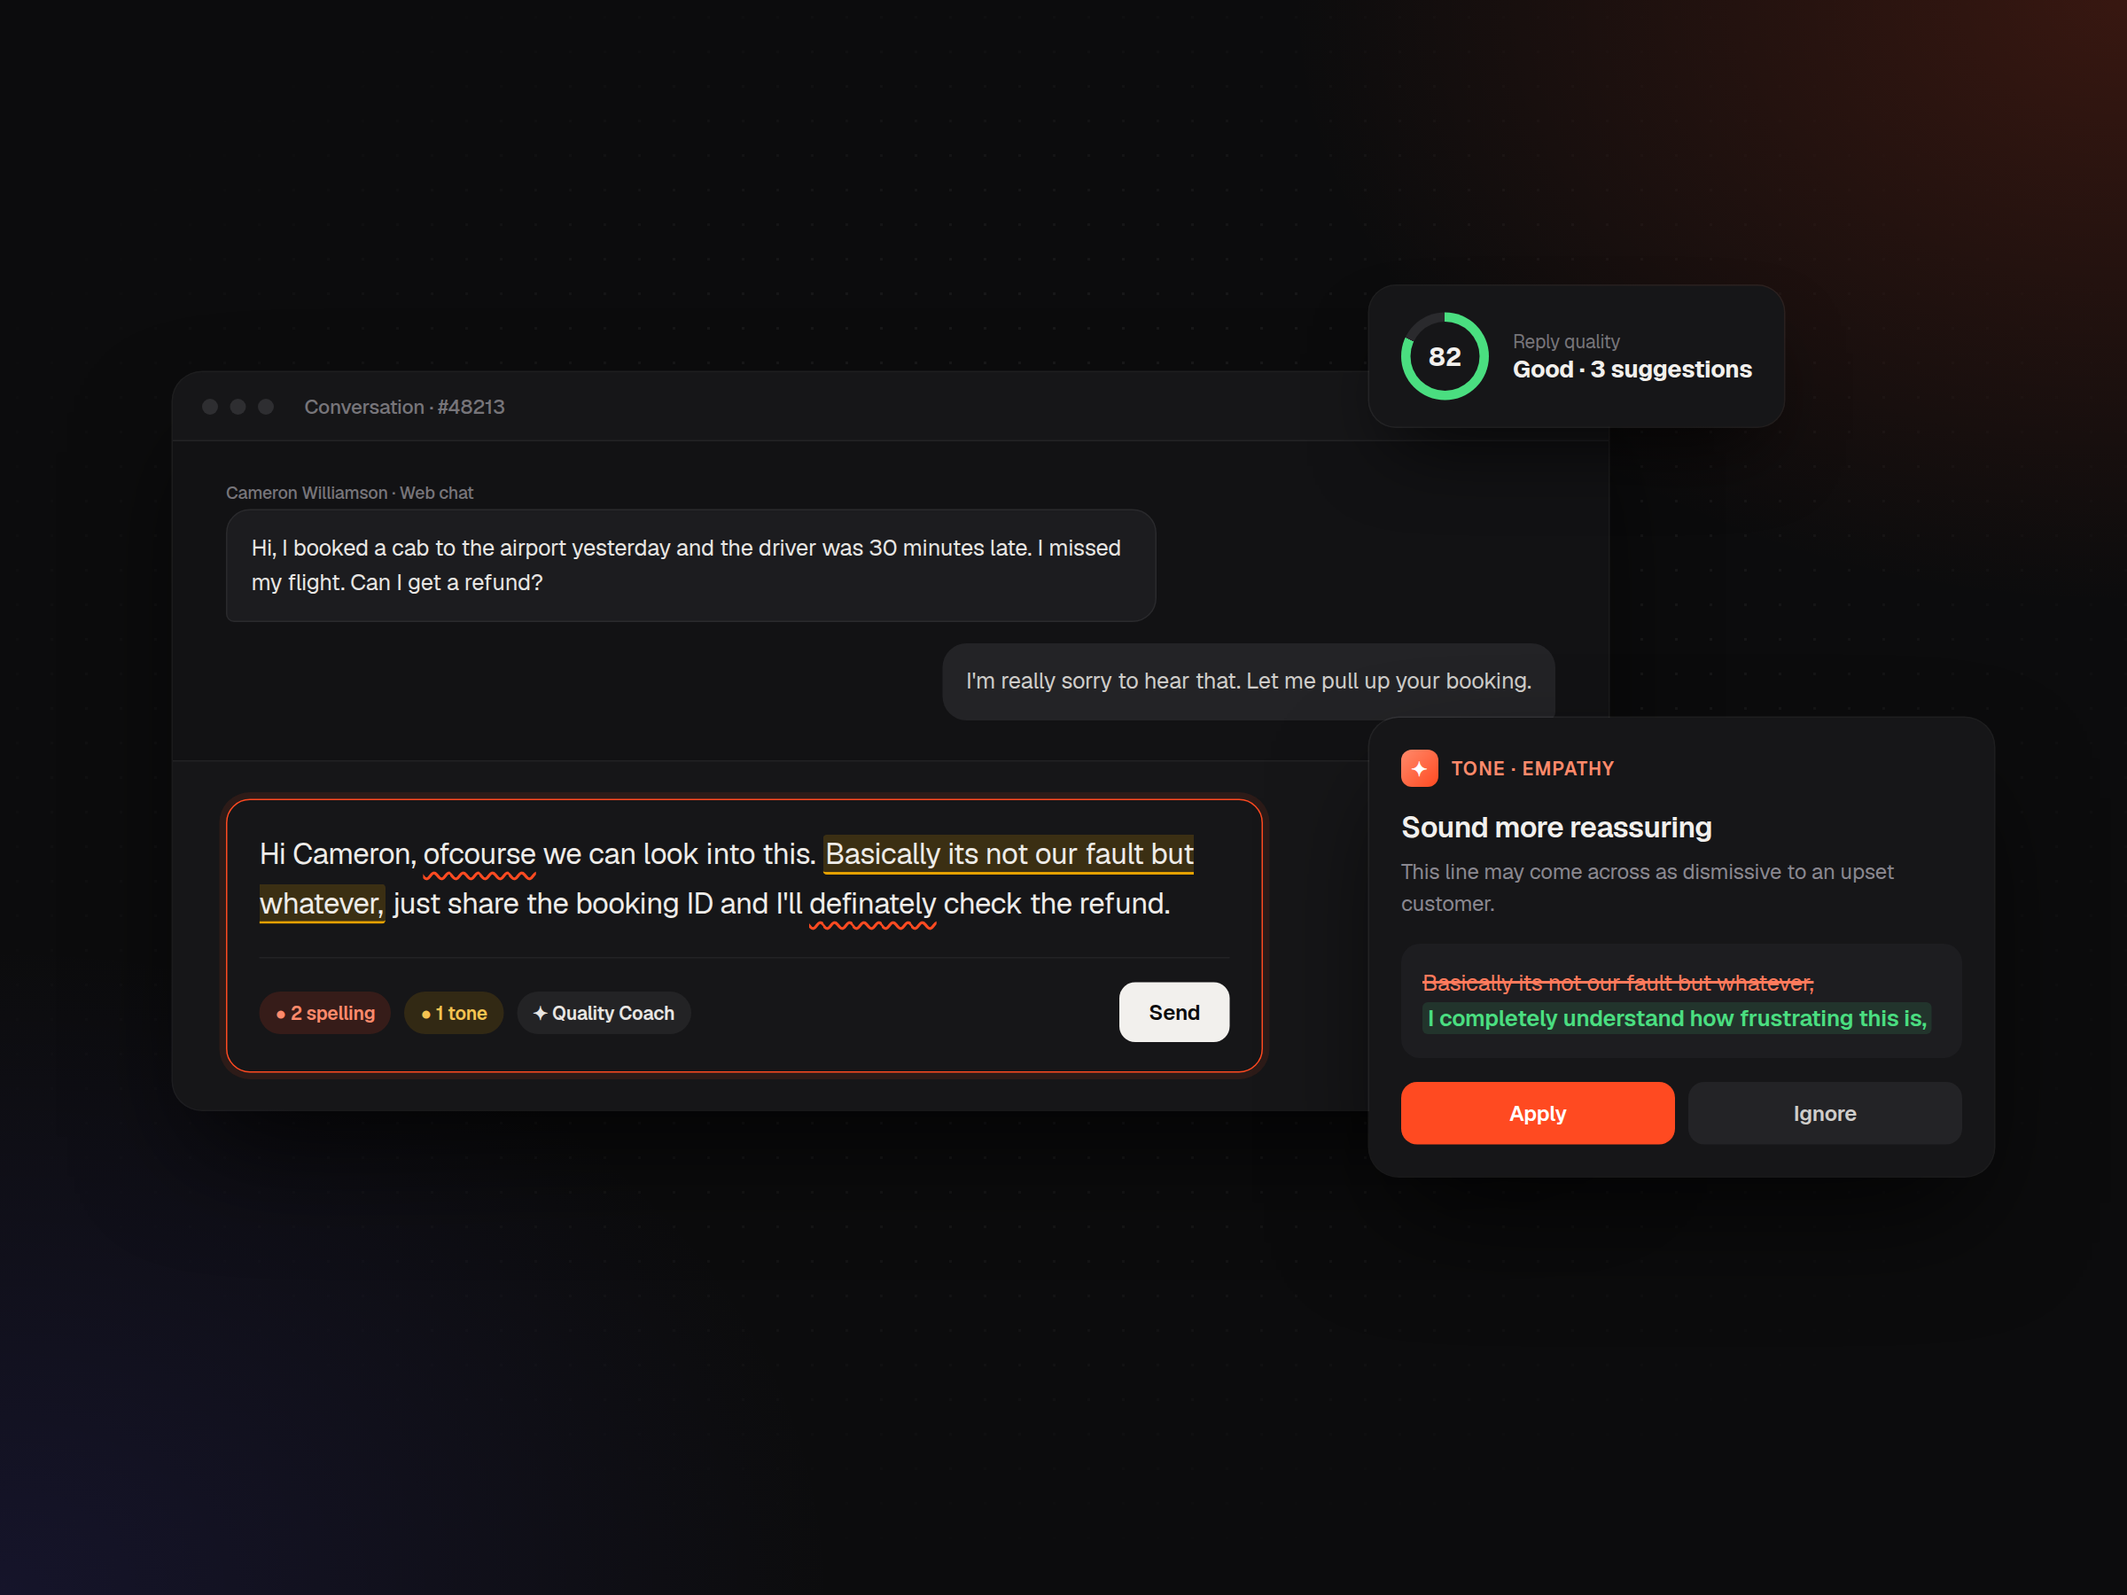
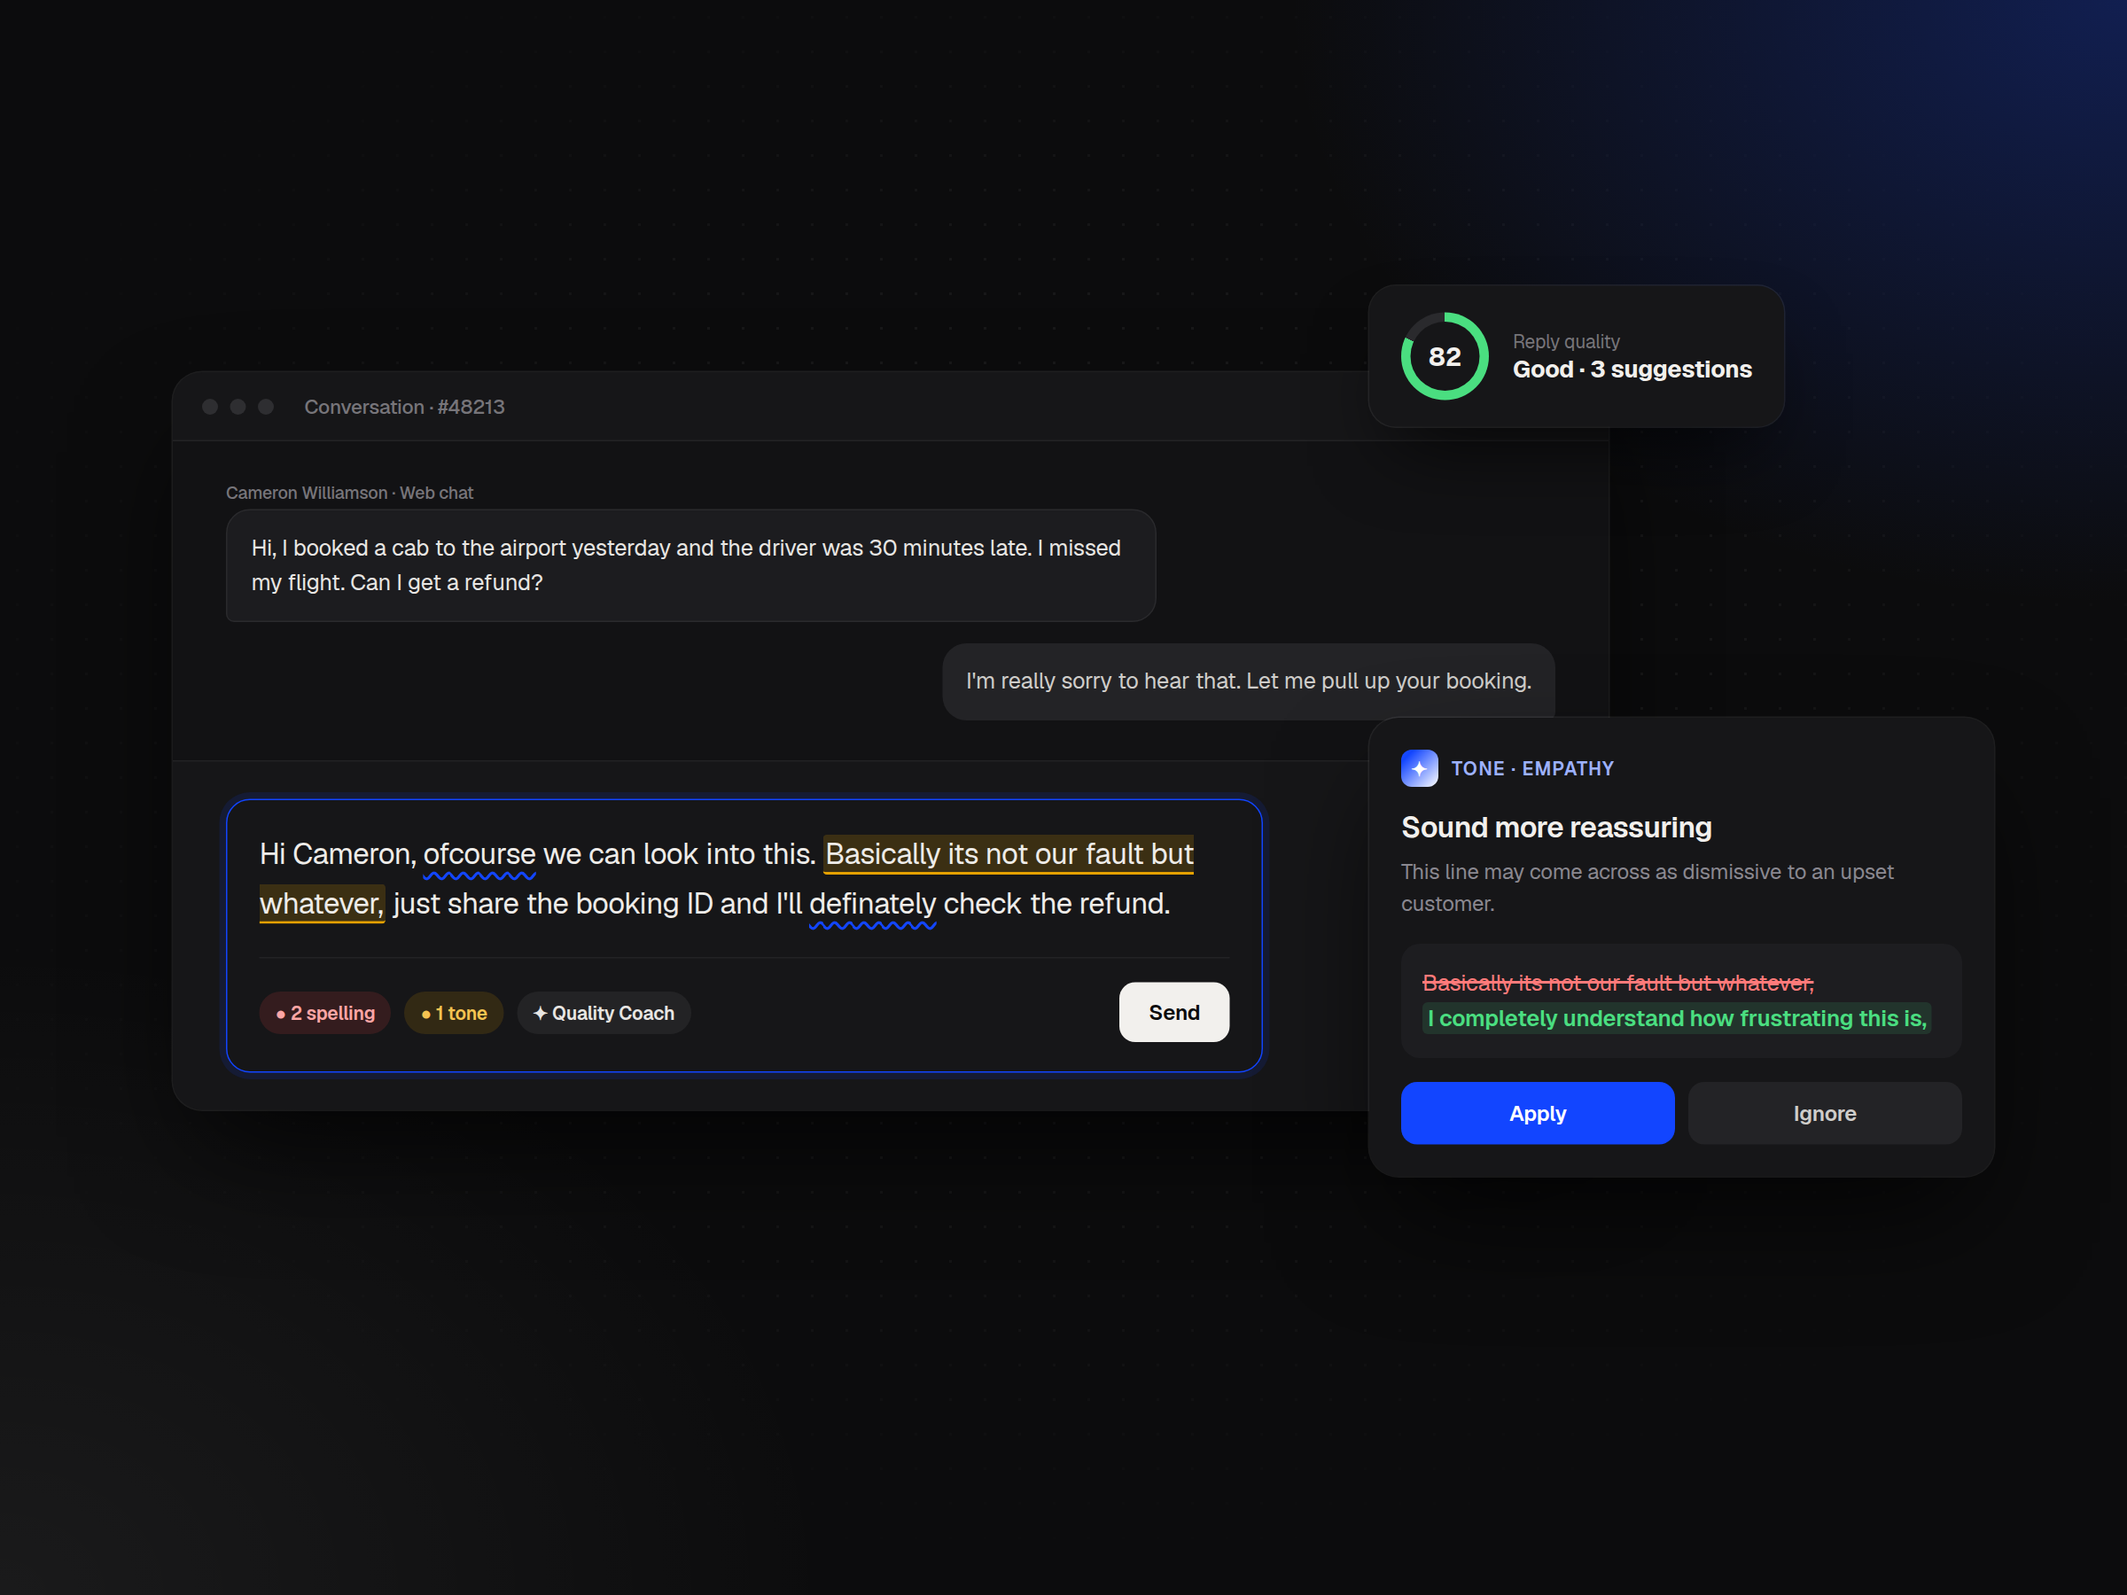
Replace orange accent with blue-to-white gradient (#1F4FFF, #1245FF, white)
Claude-Session: https://claude.ai/code/session_017r7Vu9Yd1wf2hX6fqKv751

diff --git a/framer-thumbnails/qa-dark.html b/framer-thumbnails/qa-dark.html
@@ -1,5 +1,5 @@
 <!doctype html><html><head><link rel="stylesheet" href="base.css"><style>
-.stage{background:radial-gradient(900px 600px at 15% 0%,rgba(255,74,33,.16),transparent 70%),radial-gradient(800px 700px at 100% 100%,rgba(90,80,255,.12),transparent 70%),#0c0c0d}
+.stage{background:radial-gradient(900px 600px at 15% 0%,rgba(31,79,255,.28),transparent 70%),radial-gradient(800px 700px at 100% 100%,rgba(255,255,255,.06),transparent 70%),#0c0c0d}
 .main{left:150px;top:245px;width:1000px}
 .hd{padding:34px 40px 22px;display:flex;justify-content:space-between;align-items:end}
 .hd h1{font-size:34px;font-weight:600;letter-spacing:-.035em}
@@ -19,7 +19,7 @@
 .sw.off{background:#dfe2e8}.sw.off:after{right:auto;left:3px}
 .chat{right:110px;top:530px;width:470px;border-radius:24px}
 .chat .h{display:flex;align-items:center;gap:12px;padding:18px 22px;border-bottom:1px solid #eef0f3}
-.av{width:38px;height:38px;border-radius:50%;background:linear-gradient(135deg,#ffb199,#ff4a21)}
+.av{width:38px;height:38px;border-radius:50%;background:linear-gradient(135deg,#ffb199,#1245FF)}
 .chat .h b{font-size:16px}.chat .h small{display:block;font-size:13px;color:#22a06b}
 .msgs{padding:22px;display:flex;flex-direction:column;gap:14px;background:#fafbfc}
 .m{max-width:80%;padding:14px 16px;border-radius:18px;font-size:16px;line-height:1.45}
@@ -32,8 +32,8 @@
 <div class="win main"><div class="tb"><i></i><i></i><i></i><span>Admin · Automations</span></div>
 <div class="hd"><div><h1>Quick automations</h1><p>Real-time rules for chat, WhatsApp and social channels</p></div><div class="btn">+ New automation</div></div>
 <div class="tabs"><b>Templates</b><span>Active (4)</span><span>Activity log</span></div>
-<div class="row"><div class="ic" style="background:rgba(255,74,33,.14)"><svg viewBox="0 0 24 24" fill="none" stroke="#ff6a45" stroke-width="2"><circle cx="12" cy="12" r="9"/><path d="M12 7v5l3 2"/></svg></div><div class="t"><b>Keep customers informed of delays</b><small>Send reassurance after 45s · cancels if an agent replies</small></div><div class="ch"><i style="background:#25d366">W</i><i style="background:#4b5563">C</i><i style="background:#e1306c">I</i></div><div class="sw"></div></div>
-<div class="row"><div class="ic" style="background:rgba(255,74,33,.1)"><svg viewBox="0 0 24 24" fill="none" stroke="#ff4a21" stroke-width="2"><path d="M4 12a8 8 0 0 1 14-5l2 2M20 12a8 8 0 0 1-14 5l-2-2"/><path d="M20 4v5h-5M4 20v-5h5"/></svg></div><div class="t"><b>Reassign to available agent</b><small>If assigned agent is silent for 2 min</small></div><div class="ch"><i style="background:#25d366">W</i><i style="background:#4b5563">C</i></div><div class="sw"></div></div>
+<div class="row"><div class="ic" style="background:rgba(18,69,255,.18)"><svg viewBox="0 0 24 24" fill="none" stroke="#6f8cff" stroke-width="2"><circle cx="12" cy="12" r="9"/><path d="M12 7v5l3 2"/></svg></div><div class="t"><b>Keep customers informed of delays</b><small>Send reassurance after 45s · cancels if an agent replies</small></div><div class="ch"><i style="background:#25d366">W</i><i style="background:#4b5563">C</i><i style="background:#e1306c">I</i></div><div class="sw"></div></div>
+<div class="row"><div class="ic" style="background:rgba(18,69,255,.12)"><svg viewBox="0 0 24 24" fill="none" stroke="#1245FF" stroke-width="2"><path d="M4 12a8 8 0 0 1 14-5l2 2M20 12a8 8 0 0 1-14 5l-2-2"/><path d="M20 4v5h-5M4 20v-5h5"/></svg></div><div class="t"><b>Reassign to available agent</b><small>If assigned agent is silent for 2 min</small></div><div class="ch"><i style="background:#25d366">W</i><i style="background:#4b5563">C</i></div><div class="sw"></div></div>
 <div class="row"><div class="ic" style="background:rgba(24,160,88,.14)"><svg viewBox="0 0 24 24" fill="none" stroke="#18a058" stroke-width="2"><path d="M4 6h10l6 6-6 6H4"/></svg></div><div class="t"><b>Reroute to fallback group</b><small>During peak load · Tier 2 support</small></div><div class="ch"><i style="background:#4b5563">C</i><i style="background:#1877f2">F</i></div><div class="sw off"></div></div>
 <div class="row"><div class="ic" style="background:rgba(107,85,245,.16)"><svg viewBox="0 0 24 24" fill="none" stroke="#6b55f5" stroke-width="2"><path d="M4 5h16v11H8l-4 4z"/></svg></div><div class="t"><b>Follow up with inactive customers</b><small>Nudge after 5 min of silence</small></div><div class="ch"><i style="background:#25d366">W</i><i style="background:#e1306c">I</i></div><div class="sw"></div></div>
 <div class="row" style="border:0"><div class="ic" style="background:rgba(229,161,0,.14)"><svg viewBox="0 0 24 24" fill="none" stroke="#e5a100" stroke-width="2"><path d="M4 12l8-8h8v8l-8 8z"/><circle cx="16" cy="8" r="1.5"/></svg></div><div class="t"><b>Keep track of resolution delays</b><small>Tag “SLA risk” after 30 min unresolved</small></div><div class="ch"><i style="background:#4b5563">C</i></div><div class="sw off"></div></div>

diff --git a/styles.css b/styles.css
@@ -1,4 +1,4 @@
-:root{--bg:#0c0c0d;--card:#131315;--fg:#f2f0ed;--fg-2:#a3a09b;--fg-3:#6b6964;--line:#1f1e1d;--line-2:#2c2b29;--accent:#ff4a21;
+:root{--bg:#0c0c0d;--card:#131315;--fg:#f2f0ed;--fg-2:#a3a09b;--fg-3:#6b6964;--line:#1f1e1d;--line-2:#2c2b29;--accent:#1245FF;--accent-2:#1F4FFF;--grad:linear-gradient(90deg,#1F4FFF 0%,#1245FF 17%,#ffffff 100%);
   --serif:"Instrument Serif",Georgia,serif;--sans:"Inter",ui-sans-serif,system-ui,sans-serif;--mono:"JetBrains Mono",ui-monospace,monospace;color-scheme:dark}
 *{box-sizing:border-box;margin:0;padding:0}
 html{-webkit-text-size-adjust:100%;scroll-behavior:smooth;background:var(--bg)}
@@ -24,7 +24,7 @@ a{color:inherit;text-decoration:none}img{display:block;max-width:100%}
 .btn{display:inline-flex;align-items:center;gap:10px;height:44px;padding:0 20px;border-radius:99px;font-size:14.5px;font-weight:500;border:1px solid var(--line-2);transition:.25s}
 .btn:hover{border-color:var(--fg-3)}
 .btn.primary{background:var(--accent);border-color:var(--accent);color:#fff}
-.btn.primary:hover{background:#ff6242}
+.btn.primary:hover{background:#1F4FFF;box-shadow:0 0 0 4px rgba(18,69,255,.25)}
 .btn .ar{transition:transform .25s}.btn:hover .ar{transform:translateX(3px)}
 .btn.sm{height:38px;font-size:13.5px}
 
@@ -141,7 +141,7 @@ footer{padding:140px 0 48px}
 .metric span{font-size:13px;color:var(--fg-3);line-height:1.45;display:block;margin-top:8px}
 .matrix{display:grid;grid-template-columns:1fr 1fr;gap:12px;margin-top:20px}
 .matrix div{background:var(--card);padding:18px;border-radius:14px}
-.matrix div.hi{box-shadow:inset 0 0 0 1px rgba(255,74,33,.35)}
+.matrix div.hi{box-shadow:inset 0 0 0 1px rgba(18,69,255,.45)}
 .matrix p{font-size:14px;margin:6px 0 0}
 .figma{margin-top:10px;background:var(--accent);border-color:var(--accent);color:#fff}
 .cs-foot{max-width:820px;margin:0 auto;padding:96px 24px 56px;display:flex;justify-content:space-between;font-size:13.5px;color:var(--fg-3)}
@@ -152,3 +152,19 @@ footer{padding:140px 0 48px}
 @media (prefers-reduced-motion:reduce){.rv{opacity:1;transform:none;transition:none}.hero .rec i{animation:none}}
 @media (max-width:900px){.pr,.pr:nth-child(even){grid-template-columns:1fr;gap:28px}.pr:nth-child(even) .pimg{order:0}.split{grid-template-columns:1fr;gap:48px}.shots{grid-template-columns:1fr 1fr}.metrics,.meta{grid-template-columns:1fr 1fr}.tl li{grid-template-columns:1fr;gap:6px}.hero .sub{grid-template-columns:1fr}}
 @media (max-width:600px){.shell{padding:0 16px}.links a.x{display:none}.hero{padding:72px 20px 40px;margin-top:16px}.hero .exif{left:20px;right:20px}.hero .exif .hide{display:none}.cards,.shots{grid-template-columns:1fr}.ptxt .idx{font-size:64px}.ptxt h3{font-size:36px}section{padding-top:88px}.logo .nm{display:none}}
+
+.gt,.hero h1 em,.acc,.bigcta .it,.lab h2 .n,.cs section>.mono:first-child,.hmw li::before,.metric b,.facts b{background:var(--grad);-webkit-background-clip:text;background-clip:text;color:transparent}
+.hero h1 em{padding-right:.08em}
+.quote p::before,.quote p::after{background:var(--grad);-webkit-background-clip:text;background-clip:text;color:transparent}
+.bigcta a{border-image:var(--grad) 1;border-bottom-width:2px}
+.bigcta .ar{color:#fff}
+.hero .rec i{background:#1F4FFF;box-shadow:0 0 10px #1245FF}
+.tl .yr.now{color:#6f8cff}
+.cs blockquote{border-image:linear-gradient(180deg,#1F4FFF 0%,#1245FF 17%,#fff 100%) 1}
+.checks li::before{color:#6f8cff}
+.matrix div.hi{box-shadow:inset 0 0 0 1px rgba(18,69,255,.45)}
+.tl p a:hover{border-color:#1245FF}
+.pr .pimg{box-shadow:0 0 0 1px rgba(255,255,255,.04)}
+.pr:hover .pimg{box-shadow:0 0 0 1px rgba(18,69,255,.5),0 30px 80px -30px rgba(18,69,255,.45)}
+.pimg{transition:box-shadow .5s}
+::selection{background:#1245FF;color:#fff}

diff --git a/framer-thumbnails/qc-dark.html b/framer-thumbnails/qc-dark.html
@@ -1,5 +1,5 @@
 <!doctype html><html><head><link rel="stylesheet" href="base.css"><style>
-.stage{background:radial-gradient(900px 650px at 100% 0%,rgba(255,74,33,.18),transparent 70%),radial-gradient(900px 700px at 0% 100%,rgba(90,80,255,.12),transparent 70%),#0c0c0d}
+.stage{background:radial-gradient(900px 650px at 100% 0%,rgba(31,79,255,.28),transparent 70%),radial-gradient(900px 700px at 0% 100%,rgba(255,255,255,.06),transparent 70%),#0c0c0d}
 .main{left:130px;top:280px;width:1080px}
 .conv{padding:30px 40px;display:flex;flex-direction:column;gap:16px;background:#fafbfc;border-bottom:1px solid #eef0f3}
 .m{max-width:70%;padding:16px 18px;border-radius:18px;font-size:17px;line-height:1.5}
@@ -9,7 +9,7 @@
 .comp{padding:28px 40px}
 .box{max-width:780px;border:1.5px solid #1447ff;border-radius:18px;padding:22px 24px;box-shadow:0 0 0 5px rgba(20,71,255,.08)}
 .txt{font-size:22px;line-height:1.7;color:#1b1d21;letter-spacing:-.015em}
-.g{text-decoration:underline wavy #ff4a21;text-decoration-thickness:2px;text-underline-offset:6px}
+.g{text-decoration:underline wavy #1245FF;text-decoration-thickness:2px;text-underline-offset:6px}
 .tn{background:rgba(229,161,0,.16);border-bottom:2.5px solid #e5a100;border-radius:3px;padding:0 2px}
 .bar{display:flex;align-items:center;gap:10px;margin-top:22px;padding-top:18px;border-top:1px solid #f0f1f4}
 .pill{font-size:14px;font-weight:600;padding:7px 12px;border-radius:99px;display:flex;gap:6px;align-items:center}
@@ -34,11 +34,11 @@
 <div class="m a">I'm really sorry to hear that. Let me pull up your booking.</div></div>
 <div class="comp"><div class="box">
 <div class="txt">Hi Cameron, <span class="g">ofcourse</span> we can look into this. <span class="tn">Basically its not our fault but whatever,</span> just share the booking ID and I'll <span class="g">definately</span> check the refund.</div>
-<div class="bar"><span class="pill" style="background:rgba(255,74,33,.14);color:#ff8a6b">● 2 spelling</span><span class="pill" style="background:rgba(229,161,0,.14);color:#f5c451">● 1 tone</span><span class="pill" style="background:rgba(255,255,255,.06);color:#e8e6e3">✦ Quality Coach</span><span class="send">Send</span></div>
+<div class="bar"><span class="pill" style="background:rgba(239,68,68,.14);color:#fca5a5">● 2 spelling</span><span class="pill" style="background:rgba(229,161,0,.14);color:#f5c451">● 1 tone</span><span class="pill" style="background:rgba(255,255,255,.06);color:#e8e6e3">✦ Quality Coach</span><span class="send">Send</span></div>
 </div></div></div>
 <div class="win pop"><div class="k"><i>✦</i>Tone · Empathy</div>
 <h3>Sound more reassuring</h3><p>This line may come across as dismissive to an upset customer.</p>
 <div class="diff"><s>Basically its not our fault but whatever,</s><br><b>I completely understand how frustrating this is,</b></div>
-<div class="acts"><span style="background:#ff4a21;color:#fff">Apply</span><span style="background:#232326;color:#cfcdca">Ignore</span></div></div>
+<div class="acts"><span style="background:#1245FF;color:#fff">Apply</span><span style="background:#232326;color:#cfcdca">Ignore</span></div></div>
 <div class="score"><div class="ring"><b>82</b></div><div><small>Reply quality</small><strong>Good · 3 suggestions</strong></div></div>
 </div></body></html>

diff --git a/framer-thumbnails/dark.css b/framer-thumbnails/dark.css
@@ -3,23 +3,23 @@ body{color:#f2f0ed}
 .win{background:#161618;box-shadow:0 0 0 1px rgba(255,255,255,.08),0 40px 90px -20px rgba(0,0,0,.8)}
 .tb{border-bottom-color:#232325}.tb i{background:#2e2e31}.tb span{color:#77757a}
 /* QA */
-.hd p,.t small,.tabs{color:#8a8890}.tabs{border-bottom-color:#232325}.tabs b{color:#f2f0ed;border-bottom-color:#ff4a21}
-.btn{background:#ff4a21}.row{border-bottom-color:#1f1f21}
-.sw{background:#ff4a21}.sw.off{background:#333336}
+.hd p,.t small,.tabs{color:#8a8890}.tabs{border-bottom-color:#232325}.tabs b{color:#f2f0ed;border-bottom-color:#1245FF}
+.btn{background:#1245FF}.row{border-bottom-color:#1f1f21}
+.sw{background:#1245FF}.sw.off{background:#333336}
 .ic{filter:saturate(.9)}
 .chat .h{border-bottom-color:#232325}.chat .h small{color:#3ddc84}
-.msgs{background:#121214}.m.c{background:#1c1c1f;border-color:#2a2a2d;color:#e8e6e3}.m.a{background:#ff4a21}
-.sys{background:rgba(255,74,33,.12);color:#ff8a6b}
+.msgs{background:#121214}.m.c{background:#1c1c1f;border-color:#2a2a2d;color:#e8e6e3}.m.a{background:#1245FF}
+.sys{background:rgba(18,69,255,.16);color:#9db1ff}
 .timer{background:#f2f0ed;color:#0c0c0d}
 /* QC */
 .conv{background:#121214;border-bottom-color:#232325}.who{color:#77757a}
 .conv .m.a{background:#232326;color:#cfcdca}
-.box{border-color:#ff4a21;box-shadow:0 0 0 5px rgba(255,74,33,.1)}.txt{color:#eeece9}
+.box{border-color:#1245FF;box-shadow:0 0 0 5px rgba(18,69,255,.12)}.txt{color:#eeece9}
 .tn{background:rgba(229,161,0,.18)}
 .bar{border-top-color:#232325}
 .send{background:#f2f0ed;color:#0c0c0d}
-.pop p{color:#8a8890}.pop .k{color:#ff8a6b}.pop .k i{background:linear-gradient(135deg,#ff8a6b,#ff4a21)}
-.diff{background:#1d1d20}.diff s{color:#ff7a5c}.diff b{color:#4ade80;background:rgba(74,222,128,.12)}
+.pop p{color:#8a8890}.pop .k{color:#9db1ff}.pop .k i{background:linear-gradient(135deg,#1F4FFF 0%,#1245FF 17%,#fff 100%)}
+.diff{background:#1d1d20}.diff s{color:#ff7a7a}.diff b{color:#4ade80;background:rgba(74,222,128,.12)}
 .score{background:#161618;box-shadow:0 0 0 1px rgba(255,255,255,.08),0 30px 60px -20px rgba(0,0,0,.8)}
 .ring{background:conic-gradient(#4ade80 0 82%,#2a2a2d 0)}.ring b{background:#161618}.score small{color:#77757a}
 .hd h1,.t b,.chat .h b,.pop h3,.score strong,.ring b{color:#f2f0ed}
